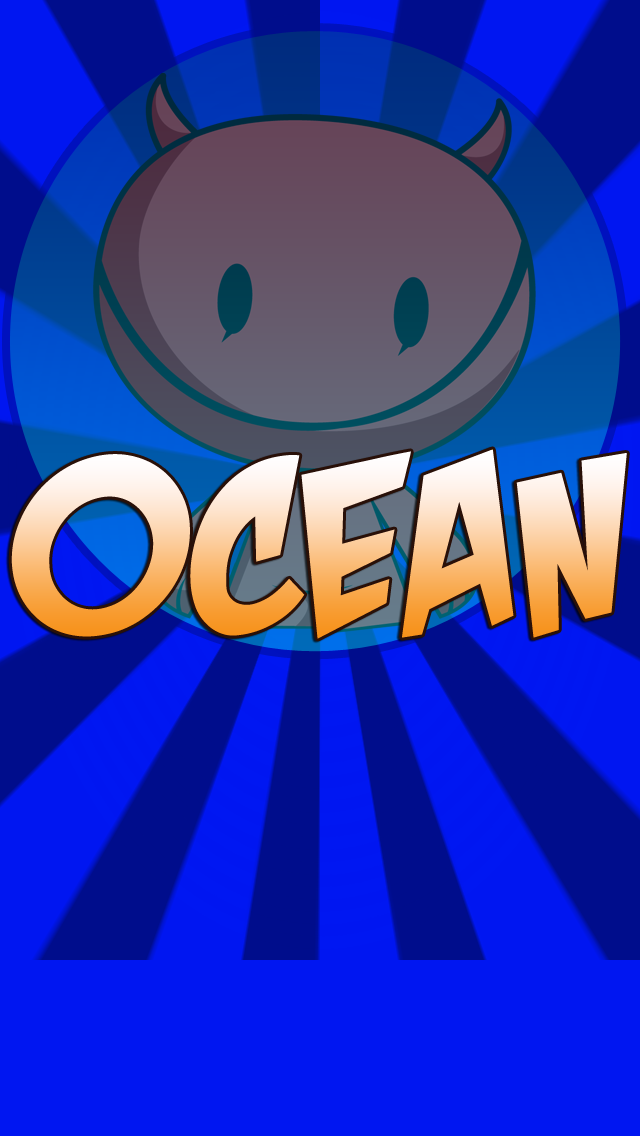
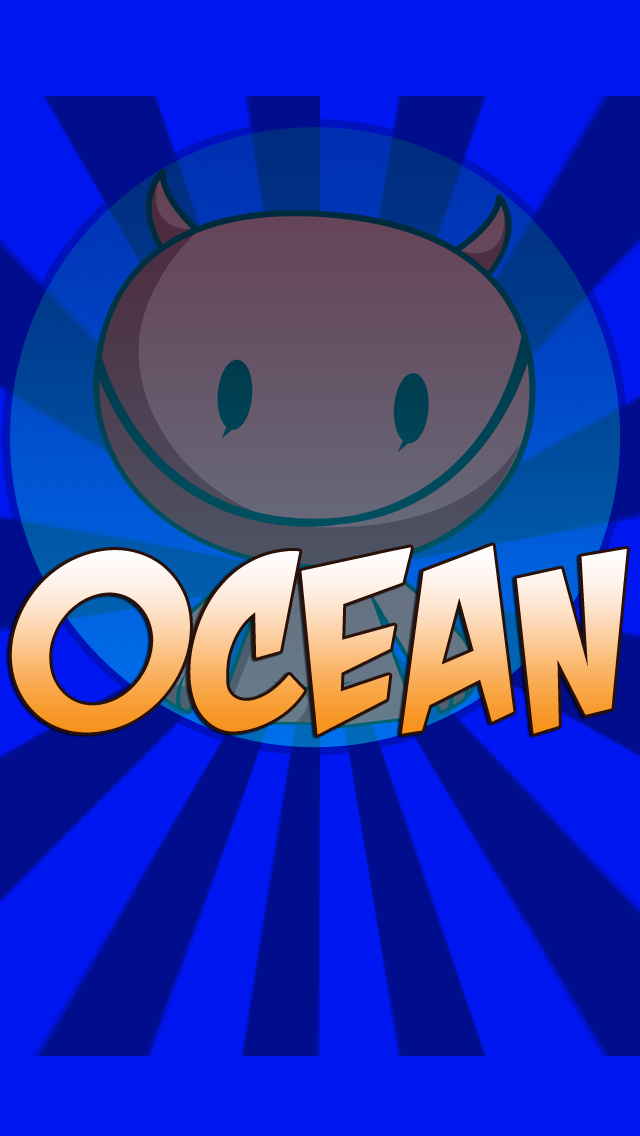
Version 1.1.1
iPhone 5 version finally fixed and graphics. Also fixed the leaderboard
bug.

diff --git a/Wicked Little Devil/Scenes/Menus/StartScene.m b/Wicked Little Devil/Scenes/Menus/StartScene.m
@@ -37,12 +37,13 @@
         gkHelper.delegate = self;
         [gkHelper authenticateLocalPlayer];
         
+        user = [[User alloc] init];
+        
         [self reportLeaderboardHighscores];
         
         app = (AppController*) [[UIApplication sharedApplication] delegate];
 		CGSize screenSize = [[CCDirector sharedDirector] winSize];
         
-        user = [[User alloc] init];
         
         if ( ![user.udata boolForKey:@"MUTED"] && ![[SimpleAudioEngine sharedEngine] isBackgroundMusicPlaying])
         {
@@ -369,11 +370,13 @@
         {
             int tmp_highscore_for_world = [user getHighscoreforWorld:i];
             totalhighscore += tmp_highscore_for_world;
+            CCLOG(@"%i",tmp_highscore_for_world);
             if (tmp_highscore_for_world > 0)
             {
                 [gkHelper submitScore:tmp_highscore_for_world category:[NSString stringWithFormat:@"WLD_%i",i]];
             }
         }
+        CCLOG(@"%i",totalhighscore);
         [gkHelper submitScore:totalhighscore category:@"WLD_GLOBAL"];
     }
 }

diff --git a/Wicked Little Devil/Scenes/Menus/EquipMenuScene.m b/Wicked Little Devil/Scenes/Menus/EquipMenuScene.m
@@ -36,7 +36,7 @@
             
         CCMenu *menu_option             = [CCMenu menuWithItems:btn_devil,btn_special, nil];
         CCMenu *menu_purchase           = [CCMenu menuWithItems:btn_purchase, nil];
-        CCSprite *bg                    = [CCSprite spriteWithFile:@"bg-powerups-menu.png"];
+        CCSprite *bg                    = [CCSprite spriteWithFile:(IS_IPHONE5 ? @"bg-powerups-menu-iphone5.png" : @"bg-powerups-menu.png")];
         CCMenu *menu_back               = [CCMenu menuWithItems:[CCMenuItemImage itemWithNormalImage:@"btn-back.png"    selectedImage:@"btn-back.png"       target:self selector:@selector(tap_back)], nil];
         lbl_user_collected              = [CCLabelTTF labelWithString:[NSString stringWithFormat:@"COLLECTED: %i",user.collected] fontName:font fontSize:48];
         

diff --git a/Wicked Little Devil/Scenes/Gameplay/GameScene.m b/Wicked Little Devil/Scenes/Gameplay/GameScene.m
@@ -87,8 +87,8 @@
         layer_game      = (GameLayer*)[CCBReader nodeGraphFromFile:file_level  owner:self];
         layer_player    = [PlayerLayer node];
         layer_ui        = [UILayer node];
-
-        [layer_bg createWorldSpecificBackgrounds:w]; 
+        
+        [layer_bg createWorldSpecificBackgrounds:w];
         [layer_game createWorldWithObjects:[layer_game children]];
         
         collab = [CCLayer node];

diff --git a/Wicked Little Devil/Objects/Player.m b/Wicked Little Devil/Objects/Player.m
@@ -22,7 +22,7 @@
         self.jumpspeed = 5.5;
         if ([[UIScreen mainScreen] bounds].size.height == 568)
         {
-            self.jumpspeed = 6.5;
+            self.jumpspeed = 6;
         }
         self.gravity = 0.18;
         self.modifier_gravity = 0;

diff --git a/Wicked Little Devil/Objects/User.m b/Wicked Little Devil/Objects/User.m
@@ -239,6 +239,8 @@
         }
     }
     
+    CCLOG(@"W: %i S: %i",w,tmp_score);
+    
     return tmp_score;
 }
 
